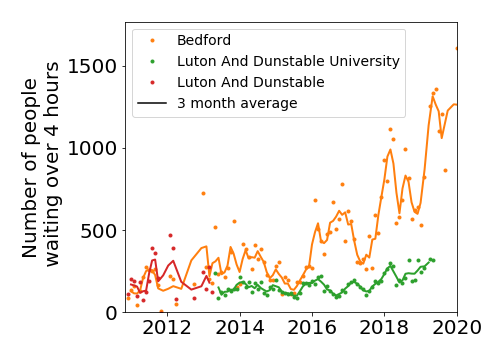
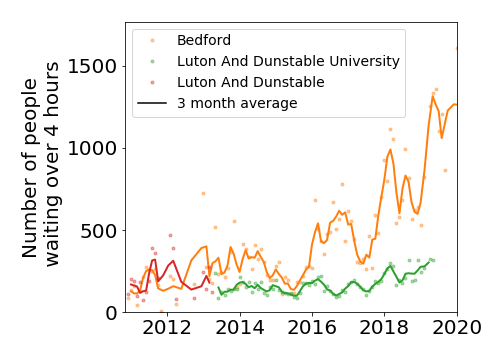
Minor plotting improvements. Removed debug print statements.

diff --git a/build_website.py b/build_website.py
@@ -77,7 +77,7 @@ def makeMergedTrustWaitingPlot(name, NHSdata):
         ax.plot(dates[mask], NumWaiting/1e6,'k.',lw=3)
         
         ax.plot(movingAverage(dates[mask]), movingAverage(NumWaiting),
-                 'k-',lw=2)
+                 'k-', lw=2)
         yrange[1] = 1.1*max(NumWaiting)
         xrange[0] = min(dates[mask])-1/12
         
@@ -86,13 +86,14 @@ def makeMergedTrustWaitingPlot(name, NHSdata):
         index = np.where(names == old_trust)[0]
         
         OldMask = waiting[index,:] != '-'
-        print(len(dates), len(OldMask[0]))
-        print(OldMask[0])
-        print(dates[OldMask[0]])
+        #print(len(dates), len(OldMask[0]))
+        #print(OldMask[0])
+        #print(dates[OldMask[0]])
         OldWaiting = intvec(str2num(waiting[index,:][OldMask]))
-        print(len(OldWaiting), OldWaiting)
-        ax.plot(dates[OldMask[0]], OldWaiting,'.',lw=3,
-                 color = old_colours[j], label = make_label(old_trust))
+        #print(len(OldWaiting), OldWaiting)
+        ax.plot(dates[OldMask[0]], OldWaiting,'.',
+                 color = old_colours[j], alpha = 0.4,
+                 label = make_label(old_trust))
         ax.plot(movingAverage(dates[OldMask[0]]), 
                  movingAverage(OldWaiting),
                  '-',lw=2, color = old_colours[j])
@@ -152,11 +153,11 @@ def plotWaitingData(data):
                 
             elif name in mergered_trusts.keys():
                 print("Merged Trust!!")
-                
+                figName = '_'.join(name.lower().split(' '))
                 fig = makeMergedTrustWaitingPlot(name, NHSdata)
                 
-                plt.savefig("figures/{}.png".format(figName))
-                plt.close()
+                fig.savefig("figures/{}.png".format(figName))
+                plt.close(fig)
                 
                 
             elif sum(mask)>=10:
